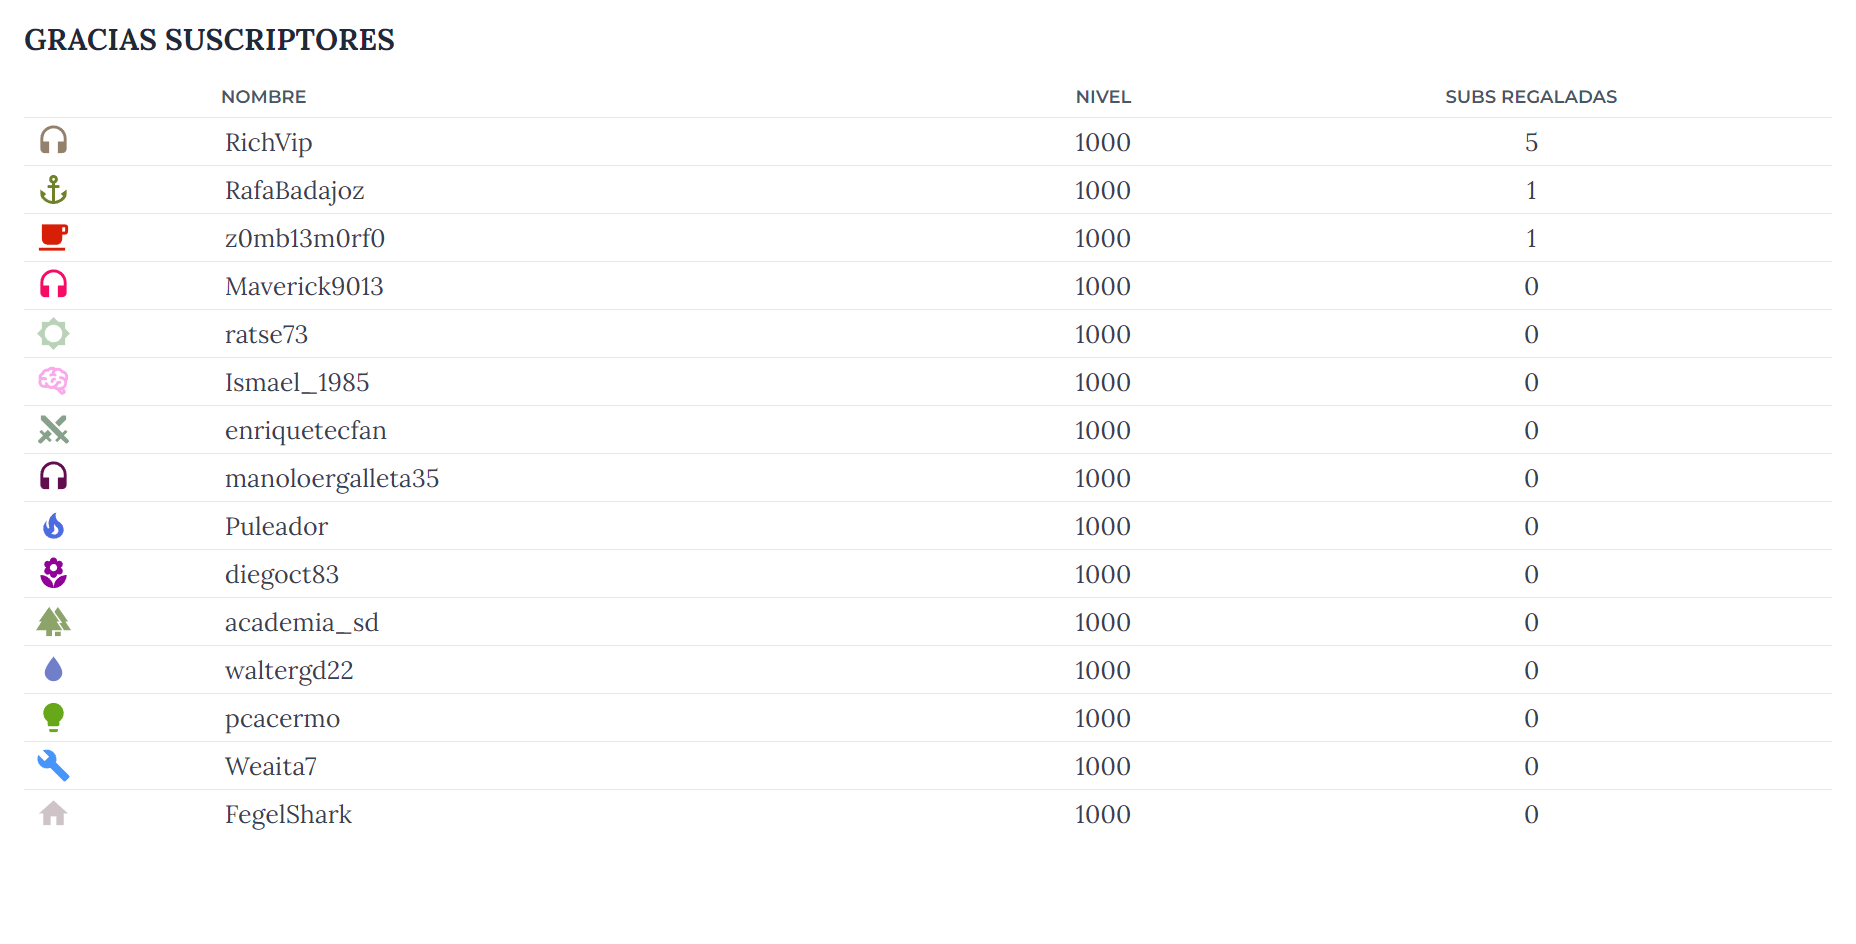
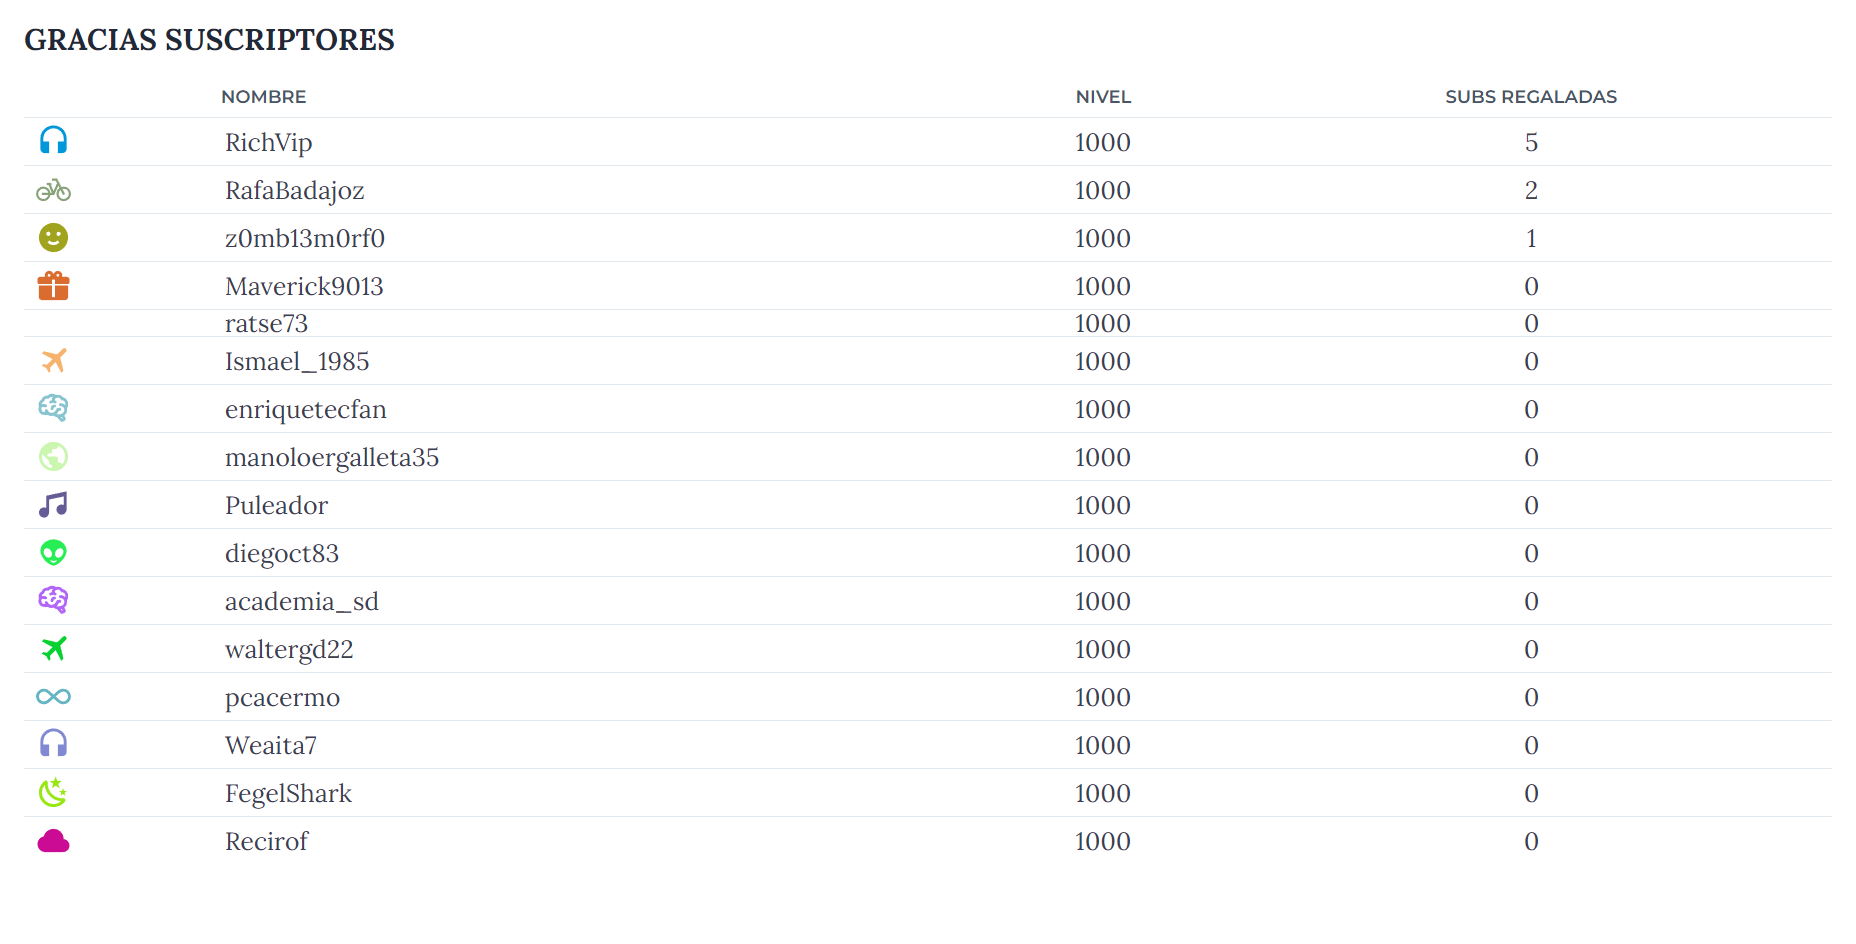
Chat Hecho

diff --git a/index_con_placeholder.html b/index_con_placeholder.html
@@ -48,21 +48,22 @@
                     </tr>
                 </thead>
                 <tbody id="nombres-lista" class="text-gray-700 text-lg">
-                    <tr><td class='py-3 px-6 text-center'><span class="iconify" data-icon="mdi:headphones" style="color: #93806d; font-size: 70px;"></span></td><td class='py-3 px-6 text-left'>RichVip</td><td class='py-3 px-6 text-center'>1000</td><td class='py-3 px-6 text-center'>5</td></tr>
-<tr><td class='py-3 px-6 text-center'><span class="iconify" data-icon="mdi:anchor" style="color: #6e8028; font-size: 70px;"></span></td><td class='py-3 px-6 text-left'>RafaBadajoz</td><td class='py-3 px-6 text-center'>1000</td><td class='py-3 px-6 text-center'>1</td></tr>
-<tr><td class='py-3 px-6 text-center'><span class="iconify" data-icon="mdi:coffee" style="color: #d71f08; font-size: 70px;"></span></td><td class='py-3 px-6 text-left'>z0mb13m0rf0</td><td class='py-3 px-6 text-center'>1000</td><td class='py-3 px-6 text-center'>1</td></tr>
-<tr><td class='py-3 px-6 text-center'><span class="iconify" data-icon="mdi:headphones" style="color: #f60c64; font-size: 70px;"></span></td><td class='py-3 px-6 text-left'>Maverick9013</td><td class='py-3 px-6 text-center'>1000</td><td class='py-3 px-6 text-center'>0</td></tr>
-<tr><td class='py-3 px-6 text-center'><span class="iconify" data-icon="mdi:brightness-5" style="color: #bad2b8; font-size: 70px;"></span></td><td class='py-3 px-6 text-left'>ratse73</td><td class='py-3 px-6 text-center'>1000</td><td class='py-3 px-6 text-center'>0</td></tr>
-<tr><td class='py-3 px-6 text-center'><span class="iconify" data-icon="mdi:brain" style="color: #faaaeb; font-size: 70px;"></span></td><td class='py-3 px-6 text-left'>Ismael_1985</td><td class='py-3 px-6 text-center'>1000</td><td class='py-3 px-6 text-center'>0</td></tr>
-<tr><td class='py-3 px-6 text-center'><span class="iconify" data-icon="mdi:sword-cross" style="color: #87a18c; font-size: 70px;"></span></td><td class='py-3 px-6 text-left'>enriquetecfan</td><td class='py-3 px-6 text-center'>1000</td><td class='py-3 px-6 text-center'>0</td></tr>
-<tr><td class='py-3 px-6 text-center'><span class="iconify" data-icon="mdi:headphones" style="color: #610d4e; font-size: 70px;"></span></td><td class='py-3 px-6 text-left'>manoloergalleta35</td><td class='py-3 px-6 text-center'>1000</td><td class='py-3 px-6 text-center'>0</td></tr>
-<tr><td class='py-3 px-6 text-center'><span class="iconify" data-icon="mdi:fire" style="color: #4c6ce0; font-size: 70px;"></span></td><td class='py-3 px-6 text-left'>Puleador</td><td class='py-3 px-6 text-center'>1000</td><td class='py-3 px-6 text-center'>0</td></tr>
-<tr><td class='py-3 px-6 text-center'><span class="iconify" data-icon="mdi:flower" style="color: #910298; font-size: 70px;"></span></td><td class='py-3 px-6 text-left'>diegoct83</td><td class='py-3 px-6 text-center'>1000</td><td class='py-3 px-6 text-center'>0</td></tr>
-<tr><td class='py-3 px-6 text-center'><span class="iconify" data-icon="mdi:forest" style="color: #8ca36a; font-size: 70px;"></span></td><td class='py-3 px-6 text-left'>academia_sd</td><td class='py-3 px-6 text-center'>1000</td><td class='py-3 px-6 text-center'>0</td></tr>
-<tr><td class='py-3 px-6 text-center'><span class="iconify" data-icon="mdi:water" style="color: #717fcb; font-size: 70px;"></span></td><td class='py-3 px-6 text-left'>waltergd22</td><td class='py-3 px-6 text-center'>1000</td><td class='py-3 px-6 text-center'>0</td></tr>
-<tr><td class='py-3 px-6 text-center'><span class="iconify" data-icon="mdi:lightbulb" style="color: #67a71a; font-size: 70px;"></span></td><td class='py-3 px-6 text-left'>pcacermo</td><td class='py-3 px-6 text-center'>1000</td><td class='py-3 px-6 text-center'>0</td></tr>
-<tr><td class='py-3 px-6 text-center'><span class="iconify" data-icon="mdi:wrench" style="color: #4795f8; font-size: 70px;"></span></td><td class='py-3 px-6 text-left'>Weaita7</td><td class='py-3 px-6 text-center'>1000</td><td class='py-3 px-6 text-center'>0</td></tr>
-<tr><td class='py-3 px-6 text-center'><span class="iconify" data-icon="mdi:home" style="color: #cec3c7; font-size: 70px;"></span></td><td class='py-3 px-6 text-left'>FegelShark</td><td class='py-3 px-6 text-center'>1000</td><td class='py-3 px-6 text-center'>0</td></tr>
+                    <tr><td class='py-3 px-6 text-center'><span class="iconify" data-icon="mdi:headphones" style="color: #0097db; font-size: 70px;"></span></td><td class='py-3 px-6 text-left'>RichVip</td><td class='py-3 px-6 text-center'>1000</td><td class='py-3 px-6 text-center'>5</td></tr>
+<tr><td class='py-3 px-6 text-center'><span class="iconify" data-icon="mdi:bicycle" style="color: #87a179; font-size: 70px;"></span></td><td class='py-3 px-6 text-left'>RafaBadajoz</td><td class='py-3 px-6 text-center'>1000</td><td class='py-3 px-6 text-center'>2</td></tr>
+<tr><td class='py-3 px-6 text-center'><span class="iconify" data-icon="mdi:emoticon-happy" style="color: #a0a31e; font-size: 70px;"></span></td><td class='py-3 px-6 text-left'>z0mb13m0rf0</td><td class='py-3 px-6 text-center'>1000</td><td class='py-3 px-6 text-center'>1</td></tr>
+<tr><td class='py-3 px-6 text-center'><span class="iconify" data-icon="mdi:gift" style="color: #da6c30; font-size: 70px;"></span></td><td class='py-3 px-6 text-left'>Maverick9013</td><td class='py-3 px-6 text-center'>1000</td><td class='py-3 px-6 text-center'>0</td></tr>
+<tr><td class='py-3 px-6 text-center'><span class="iconify" data-icon="mdi:sun" style="color: #469ebb; font-size: 70px;"></span></td><td class='py-3 px-6 text-left'>ratse73</td><td class='py-3 px-6 text-center'>1000</td><td class='py-3 px-6 text-center'>0</td></tr>
+<tr><td class='py-3 px-6 text-center'><span class="iconify" data-icon="mdi:airplane" style="color: #f6b36d; font-size: 70px;"></span></td><td class='py-3 px-6 text-left'>Ismael_1985</td><td class='py-3 px-6 text-center'>1000</td><td class='py-3 px-6 text-center'>0</td></tr>
+<tr><td class='py-3 px-6 text-center'><span class="iconify" data-icon="mdi:brain" style="color: #88c3d0; font-size: 70px;"></span></td><td class='py-3 px-6 text-left'>enriquetecfan</td><td class='py-3 px-6 text-center'>1000</td><td class='py-3 px-6 text-center'>0</td></tr>
+<tr><td class='py-3 px-6 text-center'><span class="iconify" data-icon="mdi:earth" style="color: #caf6b0; font-size: 70px;"></span></td><td class='py-3 px-6 text-left'>manoloergalleta35</td><td class='py-3 px-6 text-center'>1000</td><td class='py-3 px-6 text-center'>0</td></tr>
+<tr><td class='py-3 px-6 text-center'><span class="iconify" data-icon="mdi:music" style="color: #655b97; font-size: 70px;"></span></td><td class='py-3 px-6 text-left'>Puleador</td><td class='py-3 px-6 text-center'>1000</td><td class='py-3 px-6 text-center'>0</td></tr>
+<tr><td class='py-3 px-6 text-center'><span class="iconify" data-icon="mdi:alien" style="color: #28ee55; font-size: 70px;"></span></td><td class='py-3 px-6 text-left'>diegoct83</td><td class='py-3 px-6 text-center'>1000</td><td class='py-3 px-6 text-center'>0</td></tr>
+<tr><td class='py-3 px-6 text-center'><span class="iconify" data-icon="mdi:brain" style="color: #b265f9; font-size: 70px;"></span></td><td class='py-3 px-6 text-left'>academia_sd</td><td class='py-3 px-6 text-center'>1000</td><td class='py-3 px-6 text-center'>0</td></tr>
+<tr><td class='py-3 px-6 text-center'><span class="iconify" data-icon="mdi:airplane" style="color: #07d131; font-size: 70px;"></span></td><td class='py-3 px-6 text-left'>waltergd22</td><td class='py-3 px-6 text-center'>1000</td><td class='py-3 px-6 text-center'>0</td></tr>
+<tr><td class='py-3 px-6 text-center'><span class="iconify" data-icon="mdi:infinity" style="color: #65b6c2; font-size: 70px;"></span></td><td class='py-3 px-6 text-left'>pcacermo</td><td class='py-3 px-6 text-center'>1000</td><td class='py-3 px-6 text-center'>0</td></tr>
+<tr><td class='py-3 px-6 text-center'><span class="iconify" data-icon="mdi:headphones" style="color: #8189d2; font-size: 70px;"></span></td><td class='py-3 px-6 text-left'>Weaita7</td><td class='py-3 px-6 text-center'>1000</td><td class='py-3 px-6 text-center'>0</td></tr>
+<tr><td class='py-3 px-6 text-center'><span class="iconify" data-icon="mdi:weather-night" style="color: #97e713; font-size: 70px;"></span></td><td class='py-3 px-6 text-left'>FegelShark</td><td class='py-3 px-6 text-center'>1000</td><td class='py-3 px-6 text-center'>0</td></tr>
+<tr><td class='py-3 px-6 text-center'><span class="iconify" data-icon="mdi:cloud" style="color: #cb0b94; font-size: 70px;"></span></td><td class='py-3 px-6 text-left'>Recirof</td><td class='py-3 px-6 text-center'>1000</td><td class='py-3 px-6 text-center'>0</td></tr>
                 </tbody>
             </table>
         </div>
